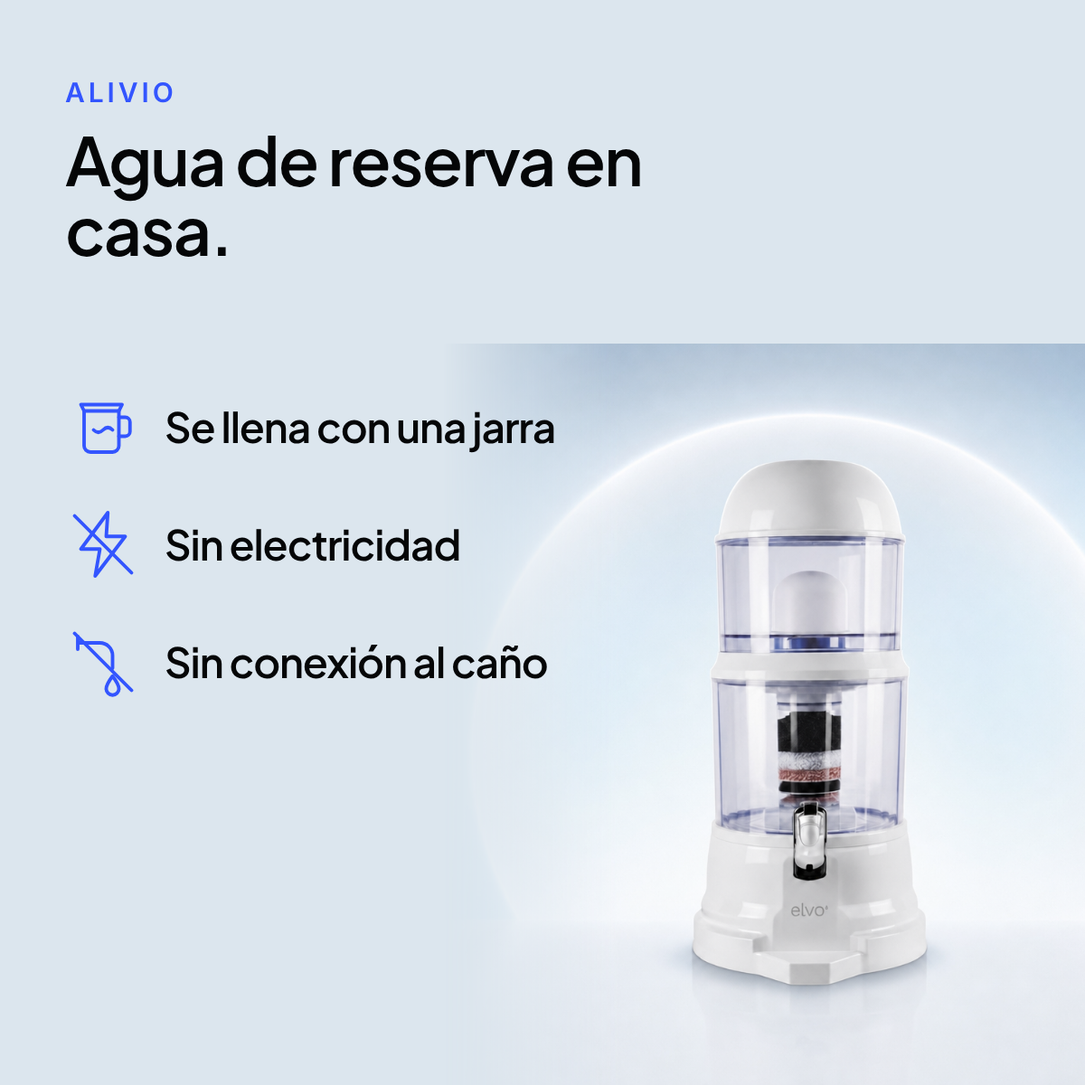
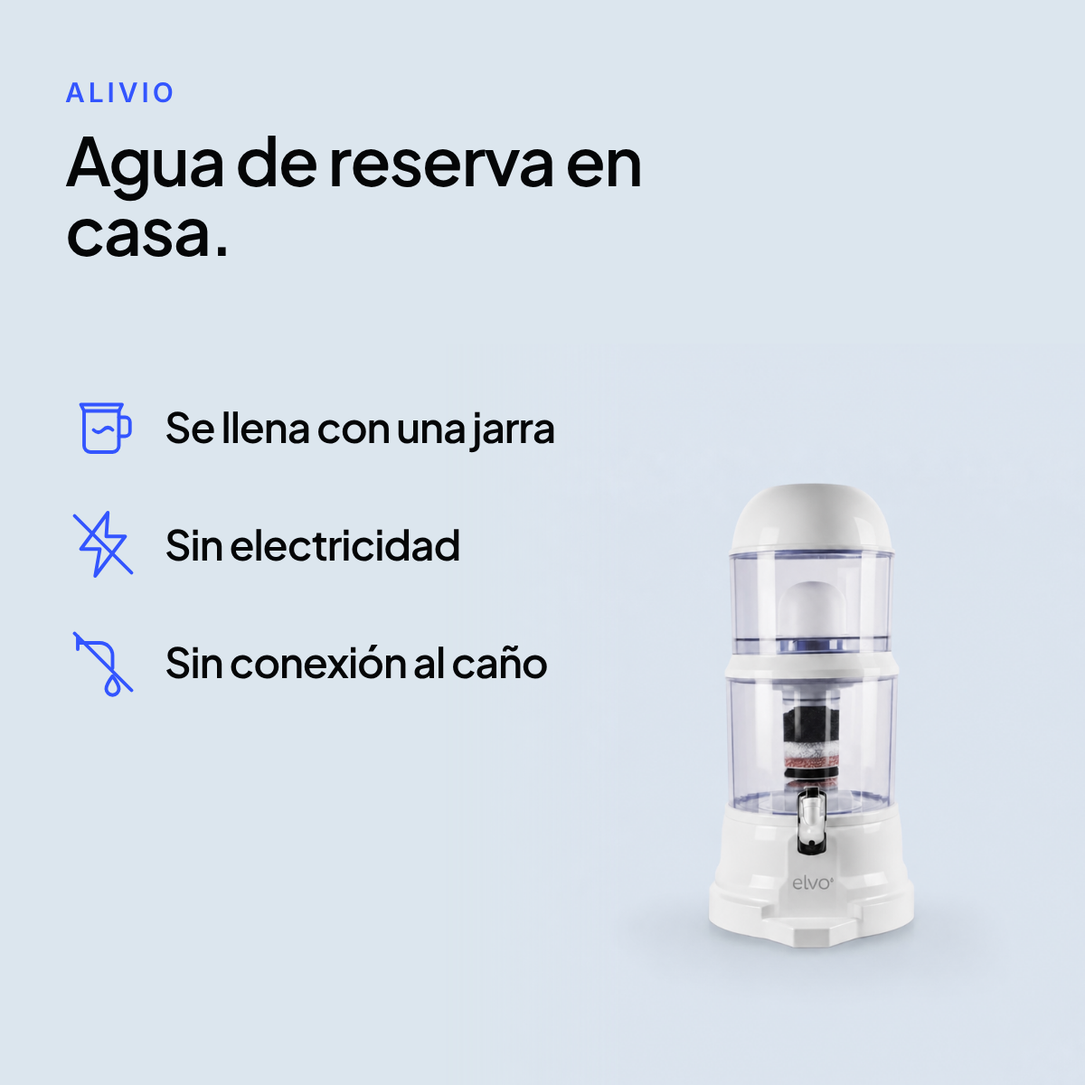
Galería Alivio: 13 láminas con fotos de uso generadas (jarra, vaso, botella, armado, pH)
Claude-Session: https://claude.ai/code/session_01Buo77uofKMf1g7UXANtFhU

diff --git a/brands/elvo/web/galeria-alivio/s8.html b/brands/elvo/web/galeria-alivio/s8.html
@@ -10,8 +10,7 @@ h1,h2,h3,.pj{font-family:'Plus Jakarta Sans',Arial,sans-serif;letter-spacing:-.0
 .ic svg{width:100%;height:100%;fill:none;stroke:currentColor;stroke-width:2.2;stroke-linecap:round;stroke-linejoin:round}
 .fn{position:absolute;left:72px;right:72px;bottom:38px;font-size:26px;line-height:1.25;color:#5B6470}
 .num{width:70px;height:70px;border-radius:50%;background:#3355FF;color:#fff;font-family:'Plus Jakarta Sans';font-weight:700;font-size:36px;display:grid;place-items:center;flex:none}
-<style></style></head><body style="background:#EEF3F7"><div style="position:absolute;left:72px;top:84px;width:1000px"><span class="k">Alivio</span>
-<h1 style="font-size:84px;line-height:1.05;font-weight:600;margin-top:18px">Dejas de estar pendiente del caño.</h1></div>
-<div style="position:absolute;left:72px;top:520px;display:flex;gap:16px;flex-wrap:wrap;width:1000px"><span style="background:#fff;border-radius:999px;padding:14px 28px;font-size:32px;font-weight:600;white-space:nowrap">Garantía de 6 meses</span><span style="background:#fff;border-radius:999px;padding:14px 28px;font-size:32px;font-weight:600;white-space:nowrap">Soporte por WhatsApp</span></div>
-<div style="position:absolute;left:72px;top:690px;width:640px;font-size:50px;font-weight:600;line-height:1.15">Escríbenos y te acompañamos a elegir: 16 o 22.</div>
-<div style="position:absolute;right:-40px;bottom:-20px;width:520px"><img src="assets/producto.png" style="width:100%;border-radius:40px"></div></body></html>
+<style></style></head><body style="background:#010A21"><div style="position:absolute;left:72px;top:60px"><span class="k" style="color:#8FA5FF">Alivio · Por dentro</span><h1 style="font-size:76px;color:#fff;font-weight:600;margin-top:12px">Tres etapas de filtrado</h1></div>
+<div style="position:absolute;left:72px;top:330px;width:1056px;height:380px;border-radius:34px;overflow:hidden"><img src="assets/repuesto.webp" style="width:800px;margin:-300px 0 0 128px;display:block"></div>
+<div style="position:absolute;left:72px;top:760px;width:1056px;display:flex;flex-direction:column;gap:34px"><div style="display:flex;gap:26px;align-items:center"><div class="num">1</div><div><h3 style="font-size:46px;font-weight:600;color:#fff;line-height:1.1">Filtro cerámico</h3></div></div><div style="display:flex;gap:26px;align-items:center"><div class="num">2</div><div><h3 style="font-size:46px;font-weight:600;color:#fff;line-height:1.1">Filtro multimedia de 5 capas</h3><p style="font-size:32px;color:#BED0DF;margin-top:6px;line-height:1.2">Carbón activado y de plata · WMSM-300 · arena de sílice · zeolita · arena mineral</p></div></div><div style="display:flex;gap:26px;align-items:center"><div class="num">3</div><div><h3 style="font-size:46px;font-weight:600;color:#fff;line-height:1.1">Piedra mineral</h3></div></div></div>
+<div class="fn" style="color:#8FA5C0">Esquema ilustrativo. Los resultados dependen de la calidad del agua de entrada.</div></body></html>

diff --git a/brands/elvo/web/galeria-alivio/s4.html b/brands/elvo/web/galeria-alivio/s4.html
@@ -10,13 +10,7 @@ h1,h2,h3,.pj{font-family:'Plus Jakarta Sans',Arial,sans-serif;letter-spacing:-.0
 .ic svg{width:100%;height:100%;fill:none;stroke:currentColor;stroke-width:2.2;stroke-linecap:round;stroke-linejoin:round}
 .fn{position:absolute;left:72px;right:72px;bottom:38px;font-size:26px;line-height:1.25;color:#5B6470}
 .num{width:70px;height:70px;border-radius:50%;background:#3355FF;color:#fff;font-family:'Plus Jakarta Sans';font-weight:700;font-size:36px;display:grid;place-items:center;flex:none}
-<style></style></head><body style="background:#EEF3F7"><div style="position:absolute;left:72px;top:72px"><span class="k">Tamaños</span><h1 style="font-size:78px;font-weight:600;margin-top:14px;line-height:1.04">Elige cuánto alivio<br>quieres tener</h1></div>
-<div style="position:absolute;left:72px;top:330px;display:flex;gap:56px"><div style="width:500px;background:#fff;border-radius:34px;padding:40px 40px 44px;text-align:center"><span class="k">Alivio 16</span>
-<div style="width:300px;height:300px;margin:18px auto 8px;overflow:hidden;border-radius:24px"><img src="assets/producto.png" style="width:520px;margin:-80px 0 0 -110px"></div>
-<h2 style="font-size:92px;font-weight:700;line-height:1">16<span style="font-size:48px;font-weight:600;margin-left:10px">litros</span></h2>
-<p style="font-size:44px;font-weight:600;color:#3355FF;margin-top:18px">S/ 159</p></div><div style="width:500px;background:#fff;border-radius:34px;padding:40px 40px 44px;text-align:center"><span class="k">Alivio 22</span>
-<div style="width:300px;height:300px;margin:18px auto 8px;overflow:hidden;border-radius:24px"><img src="assets/producto.png" style="width:520px;margin:-80px 0 0 -110px"></div>
-<h2 style="font-size:92px;font-weight:700;line-height:1">22<span style="font-size:48px;font-weight:600;margin-left:10px">litros</span></h2>
-<p style="font-size:44px;font-weight:600;color:#3355FF;margin-top:18px">S/ 198</p></div></div>
-<div style="position:absolute;left:72px;top:1040px;font-size:42px;font-weight:500">Más litros, más alivio. <span style="color:#5B6470">Alivio 22, para toda la casa.</span></div>
-<div class="fn">Capacidad total del recipiente.</div></body></html>
+<style></style></head><body><img src="assets/g8-filtro.png" style="position:absolute;inset:0;width:1200px;height:1200px;object-fit:cover;object-position:center">
+<div style="position:absolute;left:0;right:0;bottom:0;height:560px;background:linear-gradient(0deg,rgba(1,10,33,.82),rgba(1,10,33,0))"></div>
+<div style="position:absolute;left:72px;right:72px;bottom:76px;color:#fff"><span class="k" style="color:#BFD0FF;font-size:32px">Paso 2</span>
+<h1 style="font-size:84px;line-height:1.04;font-weight:600;margin-top:14px">Purifica por gravedad</h1><p style="font-size:42px;line-height:1.2;margin-top:14px;color:#E3EAF5">El agua baja sola por los filtros.</p></div></body></html>

diff --git a/brands/elvo/web/galeria-alivio/s10.html b/brands/elvo/web/galeria-alivio/s10.html
@@ -1,0 +1,22 @@
+<!doctype html><html lang="es"><head><meta charset="utf-8">
+<link href="https://fonts.googleapis.com/css2?family=Inter:wght@400;500;600&family=Plus+Jakarta+Sans:wght@500;600;700&display=swap" rel="stylesheet">
+<style>
+*{box-sizing:border-box;margin:0;padding:0}
+html,body{width:1200px;height:1200px;overflow:hidden}
+body{font-family:'Inter',Arial,sans-serif;color:#050607;position:relative;background:#DCE6EE}
+h1,h2,h3,.pj{font-family:'Plus Jakarta Sans',Arial,sans-serif;letter-spacing:-.025em}
+.k{font-size:30px;font-weight:600;letter-spacing:.13em;text-transform:uppercase;color:#3355FF}
+.ic{width:84px;height:84px;color:#3355FF;flex:none}
+.ic svg{width:100%;height:100%;fill:none;stroke:currentColor;stroke-width:2.2;stroke-linecap:round;stroke-linejoin:round}
+.fn{position:absolute;left:72px;right:72px;bottom:38px;font-size:26px;line-height:1.25;color:#5B6470}
+.num{width:70px;height:70px;border-radius:50%;background:#3355FF;color:#fff;font-family:'Plus Jakarta Sans';font-weight:700;font-size:36px;display:grid;place-items:center;flex:none}
+<style></style></head><body style="background:#EEF3F7"><div style="position:absolute;left:72px;top:72px"><span class="k">Tamaños</span><h1 style="font-size:78px;font-weight:600;margin-top:14px;line-height:1.04">Elige cuánto alivio<br>quieres tener</h1></div>
+<div style="position:absolute;left:72px;top:330px;display:flex;gap:56px"><div style="width:500px;background:#fff;border-radius:34px;padding:40px 40px 44px;text-align:center"><span class="k">Alivio 16</span>
+<div style="width:300px;height:300px;margin:18px auto 8px;overflow:hidden;border-radius:24px"><img src="assets/producto.png" style="width:520px;margin:-80px 0 0 -110px"></div>
+<h2 style="font-size:92px;font-weight:700;line-height:1">16<span style="font-size:48px;font-weight:600;margin-left:10px">litros</span></h2>
+<p style="font-size:44px;font-weight:600;color:#3355FF;margin-top:18px">S/ 159</p></div><div style="width:500px;background:#fff;border-radius:34px;padding:40px 40px 44px;text-align:center"><span class="k">Alivio 22</span>
+<div style="width:300px;height:300px;margin:18px auto 8px;overflow:hidden;border-radius:24px"><img src="assets/producto.png" style="width:520px;margin:-80px 0 0 -110px"></div>
+<h2 style="font-size:92px;font-weight:700;line-height:1">22<span style="font-size:48px;font-weight:600;margin-left:10px">litros</span></h2>
+<p style="font-size:44px;font-weight:600;color:#3355FF;margin-top:18px">S/ 198</p></div></div>
+<div style="position:absolute;left:72px;top:1040px;font-size:42px;font-weight:500">Más litros, más alivio. <span style="color:#5B6470">Alivio 22, para toda la casa.</span></div>
+<div class="fn">Capacidad total del recipiente.</div></body></html>

diff --git a/brands/elvo/web/galeria-alivio/s3.html b/brands/elvo/web/galeria-alivio/s3.html
@@ -10,6 +10,7 @@ h1,h2,h3,.pj{font-family:'Plus Jakarta Sans',Arial,sans-serif;letter-spacing:-.0
 .ic svg{width:100%;height:100%;fill:none;stroke:currentColor;stroke-width:2.2;stroke-linecap:round;stroke-linejoin:round}
 .fn{position:absolute;left:72px;right:72px;bottom:38px;font-size:26px;line-height:1.25;color:#5B6470}
 .num{width:70px;height:70px;border-radius:50%;background:#3355FF;color:#fff;font-family:'Plus Jakarta Sans';font-weight:700;font-size:36px;display:grid;place-items:center;flex:none}
-<style></style></head><body style="background:#EEF3F7"><div style="position:absolute;right:0;top:380px;width:520px;height:760px;overflow:hidden;border-radius:40px 0 0 40px"><img src="assets/producto.png" style="width:760px;margin:-60px 0 0 -120px"></div>
-<div style="position:absolute;left:72px;top:84px"><span class="k">Cómo funciona</span><h1 style="font-size:84px;font-weight:600;margin-top:14px;line-height:1.04">Tres pasos,<br>sin instalación</h1></div>
-<div style="position:absolute;left:72px;top:470px;width:640px;display:flex;flex-direction:column;gap:54px"><div style="display:flex;gap:28px;align-items:center"><div class="num" style="width:86px;height:86px;font-size:44px">1</div><div><h3 style="font-size:56px;font-weight:600;line-height:1.05">Llénalo</h3><p style="font-size:38px;color:#5B6470;margin-top:6px;line-height:1.15">con una jarra</p></div></div><div style="display:flex;gap:28px;align-items:center"><div class="num" style="width:86px;height:86px;font-size:44px">2</div><div><h3 style="font-size:56px;font-weight:600;line-height:1.05">Purifica</h3><p style="font-size:38px;color:#5B6470;margin-top:6px;line-height:1.15">por gravedad</p></div></div><div style="display:flex;gap:28px;align-items:center"><div class="num" style="width:86px;height:86px;font-size:44px">3</div><div><h3 style="font-size:56px;font-weight:600;line-height:1.05">Sirve</h3><p style="font-size:38px;color:#5B6470;margin-top:6px;line-height:1.15">directo de la llave</p></div></div></div></body></html>
+<style></style></head><body><img src="assets/g2-jarra.png" style="position:absolute;inset:0;width:1200px;height:1200px;object-fit:cover;object-position:20% 50%">
+<div style="position:absolute;left:0;right:0;bottom:0;height:560px;background:linear-gradient(0deg,rgba(1,10,33,.82),rgba(1,10,33,0))"></div>
+<div style="position:absolute;left:72px;right:72px;bottom:76px;color:#fff"><span class="k" style="color:#BFD0FF;font-size:32px">Paso 1</span>
+<h1 style="font-size:84px;line-height:1.04;font-weight:600;margin-top:14px">Llénalo con una jarra</h1><p style="font-size:42px;line-height:1.2;margin-top:14px;color:#E3EAF5">Sin conexión al caño y sin electricidad.</p></div></body></html>

diff --git a/brands/elvo/web/galeria-alivio/s7.html b/brands/elvo/web/galeria-alivio/s7.html
@@ -10,6 +10,7 @@ h1,h2,h3,.pj{font-family:'Plus Jakarta Sans',Arial,sans-serif;letter-spacing:-.0
 .ic svg{width:100%;height:100%;fill:none;stroke:currentColor;stroke-width:2.2;stroke-linecap:round;stroke-linejoin:round}
 .fn{position:absolute;left:72px;right:72px;bottom:38px;font-size:26px;line-height:1.25;color:#5B6470}
 .num{width:70px;height:70px;border-radius:50%;background:#3355FF;color:#fff;font-family:'Plus Jakarta Sans';font-weight:700;font-size:36px;display:grid;place-items:center;flex:none}
-<style></style></head><body style="background:#fff"><div style="position:absolute;left:72px;top:72px"><span class="k">En la caja</span><h1 style="font-size:78px;font-weight:600;margin-top:14px;line-height:1.04">Todo viene<br>incluido</h1></div>
-<div style="position:absolute;right:60px;top:72px;width:520px;height:520px"><img src="assets/producto.png" style="width:100%;border-radius:34px"></div>
-<div style="position:absolute;left:72px;top:680px;display:flex;flex-direction:column;gap:56px;width:1000px"><div style="display:flex;gap:26px;align-items:center"><div class="ic"><svg viewBox="0 0 48 48"><rect x="12" y="4" width="24" height="10" rx="5"/><rect x="10" y="14" width="28" height="12" rx="2"/><rect x="10" y="26" width="28" height="10" rx="2"/><path d="M8 44h32l-3-8H11z"/></svg></div><span style="font-size:48px;font-weight:600;line-height:1.1">Purificador elvo· Alivio</span></div><div style="display:flex;gap:26px;align-items:center"><div class="ic"><svg viewBox="0 0 48 48"><rect x="14" y="6" width="20" height="36" rx="4"/><path d="M14 16h20M14 26h20M14 34h20"/></svg></div><span style="font-size:48px;font-weight:600;line-height:1.1">Filtro interno incluido</span></div><div style="display:flex;gap:26px;align-items:center"><div class="ic"><svg viewBox="0 0 48 48"><path d="M24 5c7 9 12 15 12 21a12 12 0 0 1-24 0c0-6 5-12 12-21z"/><path d="M18 28a6 6 0 0 0 6 6"/></svg></div><span style="font-size:48px;font-weight:600;line-height:1.1">Gotas de pH para medir tu agua</span></div></div></body></html>
+<style></style></head><body><img src="assets/g5-armado.png" style="position:absolute;inset:0;width:1200px;height:1200px;object-fit:cover;object-position:center">
+<div style="position:absolute;left:0;right:0;bottom:0;height:560px;background:linear-gradient(0deg,rgba(1,10,33,.82),rgba(1,10,33,0))"></div>
+<div style="position:absolute;left:72px;right:72px;bottom:76px;color:#fff"><span class="k" style="color:#BFD0FF;font-size:32px">Armado</span>
+<h1 style="font-size:84px;line-height:1.04;font-weight:600;margin-top:14px">Lo armas tú, en casa</h1><p style="font-size:42px;line-height:1.2;margin-top:14px;color:#E3EAF5">Coloca el filtro y listo.</p></div></body></html>

diff --git a/brands/elvo/web/galeria-alivio/s5.html b/brands/elvo/web/galeria-alivio/s5.html
@@ -10,7 +10,7 @@ h1,h2,h3,.pj{font-family:'Plus Jakarta Sans',Arial,sans-serif;letter-spacing:-.0
 .ic svg{width:100%;height:100%;fill:none;stroke:currentColor;stroke-width:2.2;stroke-linecap:round;stroke-linejoin:round}
 .fn{position:absolute;left:72px;right:72px;bottom:38px;font-size:26px;line-height:1.25;color:#5B6470}
 .num{width:70px;height:70px;border-radius:50%;background:#3355FF;color:#fff;font-family:'Plus Jakarta Sans';font-weight:700;font-size:36px;display:grid;place-items:center;flex:none}
-<style></style></head><body style="background:#010A21"><div style="position:absolute;left:72px;top:60px"><span class="k" style="color:#8FA5FF">Alivio · Por dentro</span><h1 style="font-size:76px;color:#fff;font-weight:600;margin-top:12px">Tres etapas de filtrado</h1></div>
-<div style="position:absolute;left:72px;top:330px;width:1056px;height:380px;border-radius:34px;overflow:hidden"><img src="assets/repuesto.webp" style="width:800px;margin:-300px 0 0 128px;display:block"></div>
-<div style="position:absolute;left:72px;top:760px;width:1056px;display:flex;flex-direction:column;gap:34px"><div style="display:flex;gap:26px;align-items:center"><div class="num">1</div><div><h3 style="font-size:46px;font-weight:600;color:#fff;line-height:1.1">Filtro cerámico</h3></div></div><div style="display:flex;gap:26px;align-items:center"><div class="num">2</div><div><h3 style="font-size:46px;font-weight:600;color:#fff;line-height:1.1">Filtro multimedia de 5 capas</h3><p style="font-size:32px;color:#BED0DF;margin-top:6px;line-height:1.2">Carbón activado y de plata · WMSM-300 · arena de sílice · zeolita · arena mineral</p></div></div><div style="display:flex;gap:26px;align-items:center"><div class="num">3</div><div><h3 style="font-size:46px;font-weight:600;color:#fff;line-height:1.1">Piedra mineral</h3></div></div></div>
-<div class="fn" style="color:#8FA5C0">Esquema ilustrativo. Los resultados dependen de la calidad del agua de entrada.</div></body></html>
+<style></style></head><body><img src="assets/g3-vaso.png" style="position:absolute;inset:0;width:1200px;height:1200px;object-fit:cover;object-position:55% 50%">
+<div style="position:absolute;left:0;right:0;bottom:0;height:560px;background:linear-gradient(0deg,rgba(1,10,33,.82),rgba(1,10,33,0))"></div>
+<div style="position:absolute;left:72px;right:72px;bottom:76px;color:#fff"><span class="k" style="color:#BFD0FF;font-size:32px">Paso 3</span>
+<h1 style="font-size:84px;line-height:1.04;font-weight:600;margin-top:14px">Sirve cuando quieras</h1><p style="font-size:42px;line-height:1.2;margin-top:14px;color:#E3EAF5">Directo de la llave a tu vaso.</p></div></body></html>

diff --git a/brands/elvo/web/galeria-alivio/s12.html b/brands/elvo/web/galeria-alivio/s12.html
@@ -1,0 +1,15 @@
+<!doctype html><html lang="es"><head><meta charset="utf-8">
+<link href="https://fonts.googleapis.com/css2?family=Inter:wght@400;500;600&family=Plus+Jakarta+Sans:wght@500;600;700&display=swap" rel="stylesheet">
+<style>
+*{box-sizing:border-box;margin:0;padding:0}
+html,body{width:1200px;height:1200px;overflow:hidden}
+body{font-family:'Inter',Arial,sans-serif;color:#050607;position:relative;background:#DCE6EE}
+h1,h2,h3,.pj{font-family:'Plus Jakarta Sans',Arial,sans-serif;letter-spacing:-.025em}
+.k{font-size:30px;font-weight:600;letter-spacing:.13em;text-transform:uppercase;color:#3355FF}
+.ic{width:84px;height:84px;color:#3355FF;flex:none}
+.ic svg{width:100%;height:100%;fill:none;stroke:currentColor;stroke-width:2.2;stroke-linecap:round;stroke-linejoin:round}
+.fn{position:absolute;left:72px;right:72px;bottom:38px;font-size:26px;line-height:1.25;color:#5B6470}
+.num{width:70px;height:70px;border-radius:50%;background:#3355FF;color:#fff;font-family:'Plus Jakarta Sans';font-weight:700;font-size:36px;display:grid;place-items:center;flex:none}
+<style></style></head><body style="background:#fff"><div style="position:absolute;left:72px;top:72px"><span class="k">En la caja</span><h1 style="font-size:78px;font-weight:600;margin-top:14px;line-height:1.04">Todo viene<br>incluido</h1></div>
+<div style="position:absolute;right:60px;top:72px;width:520px;height:520px"><img src="assets/producto.png" style="width:100%;border-radius:34px"></div>
+<div style="position:absolute;left:72px;top:680px;display:flex;flex-direction:column;gap:56px;width:1000px"><div style="display:flex;gap:26px;align-items:center"><div class="ic"><svg viewBox="0 0 48 48"><rect x="12" y="4" width="24" height="10" rx="5"/><rect x="10" y="14" width="28" height="12" rx="2"/><rect x="10" y="26" width="28" height="10" rx="2"/><path d="M8 44h32l-3-8H11z"/></svg></div><span style="font-size:48px;font-weight:600;line-height:1.1">Purificador elvo· Alivio</span></div><div style="display:flex;gap:26px;align-items:center"><div class="ic"><svg viewBox="0 0 48 48"><rect x="14" y="6" width="20" height="36" rx="4"/><path d="M14 16h20M14 26h20M14 34h20"/></svg></div><span style="font-size:48px;font-weight:600;line-height:1.1">Filtro interno incluido</span></div><div style="display:flex;gap:26px;align-items:center"><div class="ic"><svg viewBox="0 0 48 48"><path d="M24 5c7 9 12 15 12 21a12 12 0 0 1-24 0c0-6 5-12 12-21z"/><path d="M18 28a6 6 0 0 0 6 6"/></svg></div><span style="font-size:48px;font-weight:600;line-height:1.1">Gotas de pH para medir tu agua</span></div></div></body></html>

diff --git a/brands/elvo/web/galeria-alivio/_drop.html b/brands/elvo/web/galeria-alivio/_drop.html
@@ -1,0 +1,15 @@
+<!doctype html><html lang="es"><head><meta charset="utf-8">
+<link href="https://fonts.googleapis.com/css2?family=Inter:wght@400;500;600&family=Plus+Jakarta+Sans:wght@500;600;700&display=swap" rel="stylesheet">
+<style>
+*{box-sizing:border-box;margin:0;padding:0}
+html,body{width:1200px;height:1200px;overflow:hidden}
+body{font-family:'Inter',Arial,sans-serif;color:#050607;position:relative;background:#DCE6EE}
+h1,h2,h3,.pj{font-family:'Plus Jakarta Sans',Arial,sans-serif;letter-spacing:-.025em}
+.k{font-size:30px;font-weight:600;letter-spacing:.13em;text-transform:uppercase;color:#3355FF}
+.ic{width:84px;height:84px;color:#3355FF;flex:none}
+.ic svg{width:100%;height:100%;fill:none;stroke:currentColor;stroke-width:2.2;stroke-linecap:round;stroke-linejoin:round}
+.fn{position:absolute;left:72px;right:72px;bottom:38px;font-size:26px;line-height:1.25;color:#5B6470}
+.num{width:70px;height:70px;border-radius:50%;background:#3355FF;color:#fff;font-family:'Plus Jakarta Sans';font-weight:700;font-size:36px;display:grid;place-items:center;flex:none}
+<style></style></head><body style="background:#EEF3F7"><div style="position:absolute;right:0;top:380px;width:520px;height:760px;overflow:hidden;border-radius:40px 0 0 40px"><img src="assets/producto.png" style="width:760px;margin:-60px 0 0 -120px"></div>
+<div style="position:absolute;left:72px;top:84px"><span class="k">Cómo funciona</span><h1 style="font-size:84px;font-weight:600;margin-top:14px;line-height:1.04">Tres pasos,<br>sin instalación</h1></div>
+<div style="position:absolute;left:72px;top:470px;width:640px;display:flex;flex-direction:column;gap:54px"><div style="display:flex;gap:28px;align-items:center"><div class="num" style="width:86px;height:86px;font-size:44px">1</div><div><h3 style="font-size:56px;font-weight:600;line-height:1.05">Llénalo</h3><p style="font-size:38px;color:#5B6470;margin-top:6px;line-height:1.15">con una jarra</p></div></div><div style="display:flex;gap:28px;align-items:center"><div class="num" style="width:86px;height:86px;font-size:44px">2</div><div><h3 style="font-size:56px;font-weight:600;line-height:1.05">Purifica</h3><p style="font-size:38px;color:#5B6470;margin-top:6px;line-height:1.15">por gravedad</p></div></div><div style="display:flex;gap:28px;align-items:center"><div class="num" style="width:86px;height:86px;font-size:44px">3</div><div><h3 style="font-size:56px;font-weight:600;line-height:1.05">Sirve</h3><p style="font-size:38px;color:#5B6470;margin-top:6px;line-height:1.15">directo de la llave</p></div></div></div></body></html>

diff --git a/brands/elvo/web/galeria-alivio/s13.html b/brands/elvo/web/galeria-alivio/s13.html
@@ -1,0 +1,17 @@
+<!doctype html><html lang="es"><head><meta charset="utf-8">
+<link href="https://fonts.googleapis.com/css2?family=Inter:wght@400;500;600&family=Plus+Jakarta+Sans:wght@500;600;700&display=swap" rel="stylesheet">
+<style>
+*{box-sizing:border-box;margin:0;padding:0}
+html,body{width:1200px;height:1200px;overflow:hidden}
+body{font-family:'Inter',Arial,sans-serif;color:#050607;position:relative;background:#DCE6EE}
+h1,h2,h3,.pj{font-family:'Plus Jakarta Sans',Arial,sans-serif;letter-spacing:-.025em}
+.k{font-size:30px;font-weight:600;letter-spacing:.13em;text-transform:uppercase;color:#3355FF}
+.ic{width:84px;height:84px;color:#3355FF;flex:none}
+.ic svg{width:100%;height:100%;fill:none;stroke:currentColor;stroke-width:2.2;stroke-linecap:round;stroke-linejoin:round}
+.fn{position:absolute;left:72px;right:72px;bottom:38px;font-size:26px;line-height:1.25;color:#5B6470}
+.num{width:70px;height:70px;border-radius:50%;background:#3355FF;color:#fff;font-family:'Plus Jakarta Sans';font-weight:700;font-size:36px;display:grid;place-items:center;flex:none}
+<style></style></head><body style="background:#EEF3F7"><div style="position:absolute;left:72px;top:84px;width:1000px"><span class="k">Alivio</span>
+<h1 style="font-size:84px;line-height:1.05;font-weight:600;margin-top:18px">Dejas de estar pendiente del caño.</h1></div>
+<div style="position:absolute;left:72px;top:520px;display:flex;gap:16px;flex-wrap:wrap;width:1000px"><span style="background:#fff;border-radius:999px;padding:14px 28px;font-size:32px;font-weight:600;white-space:nowrap">Garantía de 6 meses</span><span style="background:#fff;border-radius:999px;padding:14px 28px;font-size:32px;font-weight:600;white-space:nowrap">Soporte por WhatsApp</span></div>
+<div style="position:absolute;left:72px;top:690px;width:640px;font-size:50px;font-weight:600;line-height:1.15">Escríbenos y te acompañamos a elegir: 16 o 22.</div>
+<div style="position:absolute;right:-40px;bottom:-20px;width:520px"><img src="assets/producto.png" style="width:100%;border-radius:40px"></div></body></html>

diff --git a/brands/elvo/web/galeria-alivio/s6.html b/brands/elvo/web/galeria-alivio/s6.html
@@ -10,7 +10,7 @@ h1,h2,h3,.pj{font-family:'Plus Jakarta Sans',Arial,sans-serif;letter-spacing:-.0
 .ic svg{width:100%;height:100%;fill:none;stroke:currentColor;stroke-width:2.2;stroke-linecap:round;stroke-linejoin:round}
 .fn{position:absolute;left:72px;right:72px;bottom:38px;font-size:26px;line-height:1.25;color:#5B6470}
 .num{width:70px;height:70px;border-radius:50%;background:#3355FF;color:#fff;font-family:'Plus Jakarta Sans';font-weight:700;font-size:36px;display:grid;place-items:center;flex:none}
-<style></style></head><body style="background:#EEF3F7"><div style="position:absolute;left:72px;top:72px"><span class="k">Kit de repuesto</span><h1 style="font-size:78px;font-weight:600;margin-top:14px;line-height:1.04">Un kit, hasta<br>un año de uso</h1></div>
-<div style="position:absolute;left:72px;top:380px;width:1056px;height:420px;border-radius:34px;overflow:hidden"><img src="assets/repuesto.webp" style="width:900px;margin:-350px 0 0 78px;display:block"></div>
-<div style="position:absolute;left:72px;top:850px;width:1056px;display:flex;flex-direction:column;gap:22px;font-size:44px;font-weight:500;line-height:1.15">
-<div>Rinde <b>10,000 litros o 1 año</b>, lo que ocurra primero.</div><div>Tu equipo ya trae su filtro. El kit de repuesto es <b>S/95</b>, aparte.</div></div></body></html>
+<style></style></head><body><img src="assets/g4-botella.png" style="position:absolute;inset:0;width:1200px;height:1200px;object-fit:cover;object-position:80% 50%">
+<div style="position:absolute;left:0;right:0;bottom:0;height:560px;background:linear-gradient(0deg,rgba(1,10,33,.82),rgba(1,10,33,0))"></div>
+<div style="position:absolute;left:72px;right:72px;bottom:76px;color:#fff"><span class="k" style="color:#BFD0FF;font-size:32px">Para llevar</span>
+<h1 style="font-size:84px;line-height:1.04;font-weight:600;margin-top:14px">Llena tu botella</h1><p style="font-size:42px;line-height:1.2;margin-top:14px;color:#E3EAF5">O tu jarra, o tu vaso.</p></div></body></html>

diff --git a/brands/elvo/web/galeria-alivio/s11.html b/brands/elvo/web/galeria-alivio/s11.html
@@ -1,0 +1,16 @@
+<!doctype html><html lang="es"><head><meta charset="utf-8">
+<link href="https://fonts.googleapis.com/css2?family=Inter:wght@400;500;600&family=Plus+Jakarta+Sans:wght@500;600;700&display=swap" rel="stylesheet">
+<style>
+*{box-sizing:border-box;margin:0;padding:0}
+html,body{width:1200px;height:1200px;overflow:hidden}
+body{font-family:'Inter',Arial,sans-serif;color:#050607;position:relative;background:#DCE6EE}
+h1,h2,h3,.pj{font-family:'Plus Jakarta Sans',Arial,sans-serif;letter-spacing:-.025em}
+.k{font-size:30px;font-weight:600;letter-spacing:.13em;text-transform:uppercase;color:#3355FF}
+.ic{width:84px;height:84px;color:#3355FF;flex:none}
+.ic svg{width:100%;height:100%;fill:none;stroke:currentColor;stroke-width:2.2;stroke-linecap:round;stroke-linejoin:round}
+.fn{position:absolute;left:72px;right:72px;bottom:38px;font-size:26px;line-height:1.25;color:#5B6470}
+.num{width:70px;height:70px;border-radius:50%;background:#3355FF;color:#fff;font-family:'Plus Jakarta Sans';font-weight:700;font-size:36px;display:grid;place-items:center;flex:none}
+<style></style></head><body style="background:#EEF3F7"><div style="position:absolute;left:72px;top:72px"><span class="k">Kit de repuesto</span><h1 style="font-size:78px;font-weight:600;margin-top:14px;line-height:1.04">Un kit, hasta<br>un año de uso</h1></div>
+<div style="position:absolute;left:72px;top:380px;width:1056px;height:420px;border-radius:34px;overflow:hidden"><img src="assets/repuesto.webp" style="width:900px;margin:-350px 0 0 78px;display:block"></div>
+<div style="position:absolute;left:72px;top:850px;width:1056px;display:flex;flex-direction:column;gap:22px;font-size:44px;font-weight:500;line-height:1.15">
+<div>Rinde <b>10,000 litros o 1 año</b>, lo que ocurra primero.</div><div>Tu equipo ya trae su filtro. El kit de repuesto es <b>S/95</b>, aparte.</div></div></body></html>

diff --git a/brands/elvo/web/galeria-alivio/s9.html b/brands/elvo/web/galeria-alivio/s9.html
@@ -1,0 +1,16 @@
+<!doctype html><html lang="es"><head><meta charset="utf-8">
+<link href="https://fonts.googleapis.com/css2?family=Inter:wght@400;500;600&family=Plus+Jakarta+Sans:wght@500;600;700&display=swap" rel="stylesheet">
+<style>
+*{box-sizing:border-box;margin:0;padding:0}
+html,body{width:1200px;height:1200px;overflow:hidden}
+body{font-family:'Inter',Arial,sans-serif;color:#050607;position:relative;background:#DCE6EE}
+h1,h2,h3,.pj{font-family:'Plus Jakarta Sans',Arial,sans-serif;letter-spacing:-.025em}
+.k{font-size:30px;font-weight:600;letter-spacing:.13em;text-transform:uppercase;color:#3355FF}
+.ic{width:84px;height:84px;color:#3355FF;flex:none}
+.ic svg{width:100%;height:100%;fill:none;stroke:currentColor;stroke-width:2.2;stroke-linecap:round;stroke-linejoin:round}
+.fn{position:absolute;left:72px;right:72px;bottom:38px;font-size:26px;line-height:1.25;color:#5B6470}
+.num{width:70px;height:70px;border-radius:50%;background:#3355FF;color:#fff;font-family:'Plus Jakarta Sans';font-weight:700;font-size:36px;display:grid;place-items:center;flex:none}
+<style></style></head><body><img src="assets/g6-ph.png" style="position:absolute;inset:0;width:1200px;height:1200px;object-fit:cover;object-position:center">
+<div style="position:absolute;left:0;right:0;bottom:0;height:560px;background:linear-gradient(0deg,rgba(1,10,33,.82),rgba(1,10,33,0))"></div>
+<div style="position:absolute;left:72px;right:72px;bottom:76px;color:#fff"><span class="k" style="color:#BFD0FF;font-size:32px">Gotas de pH incluidas</span>
+<h1 style="font-size:84px;line-height:1.04;font-weight:600;margin-top:14px">Mide el pH de tu agua</h1><p style="font-size:42px;line-height:1.2;margin-top:14px;color:#E3EAF5">Una gota en el vaso y comparas.</p></div></body></html>
